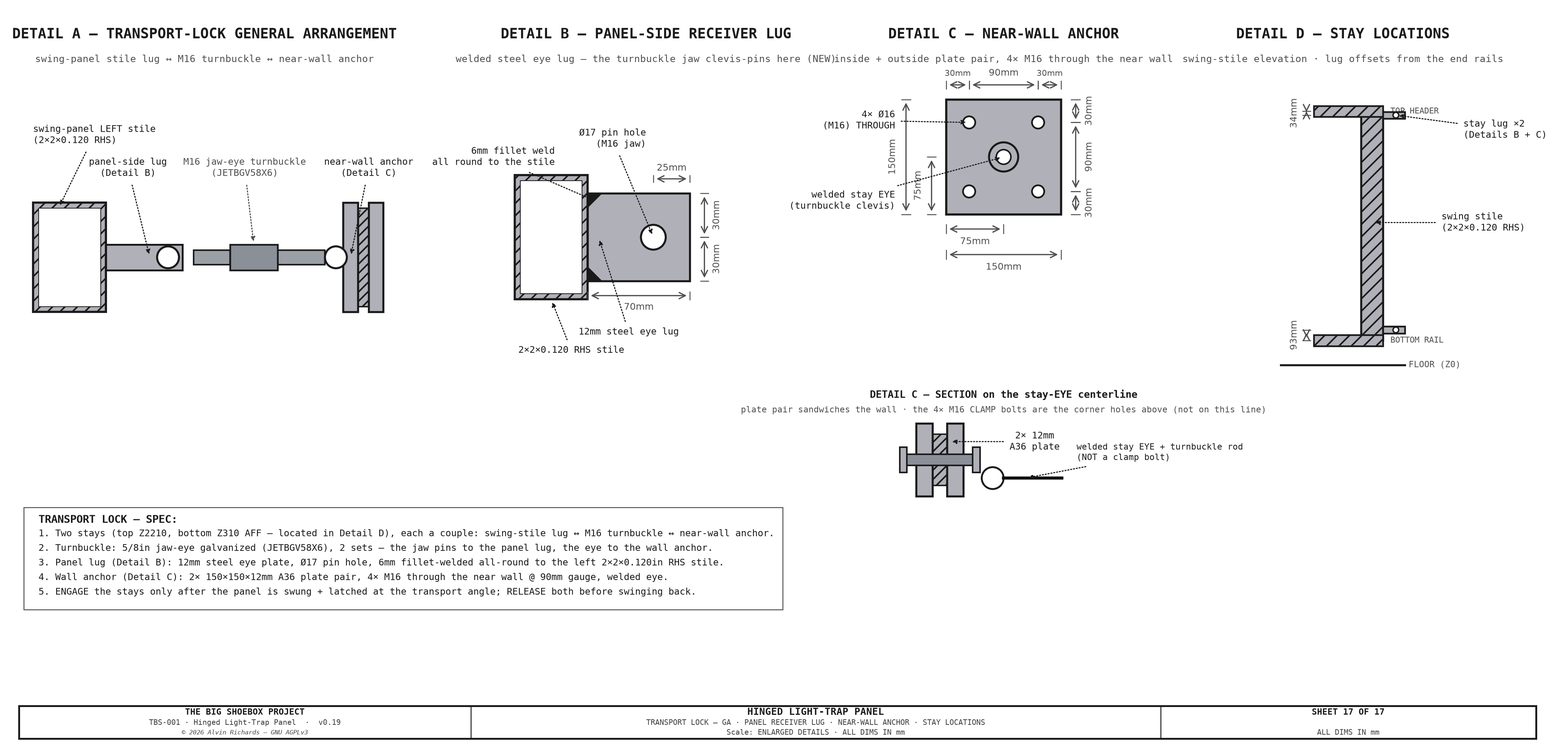
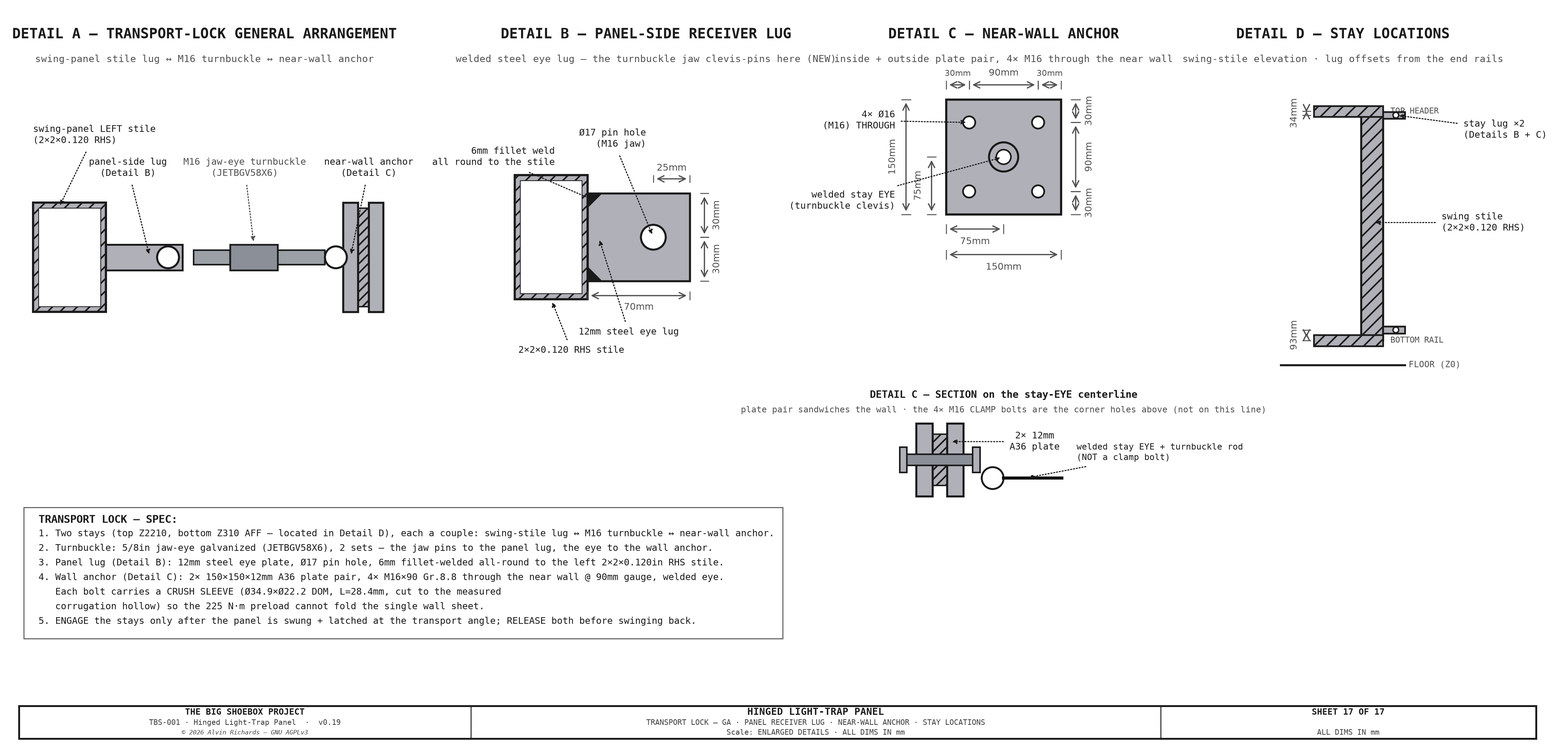
Hinged panel: crush sleeves on the M16 stay-anchor wall bolts (1-3/8 × 1/4 DOM, SF 2.02), M16×90 Gr.8.8 at 225 N·m

Changed region(s): [[0.0312, 0.7474, 0.4375, 0.8408]]

diff --git a/src/generators/costing.py b/src/generators/costing.py
@@ -244,8 +244,9 @@ SWINGPIVOT = [
     LineItem("Pivot floor/roof mount plates + anchor bolts + 3 hinge brackets", 70, 95, 120, "2026-08-28: Ø220×20 plates + 12× M12 anchors + 3 welded hub brackets (previously uncosted); local fab / McMaster — Sheet 10"),
     LineItem("Thrust ball bearing, 51118 (Ø90 bore, single-direction)", 80, 80, 80, "Bearings Direct $80.03 firm; SF>50 on the 3.24 kN axial"),
     LineItem("iglide J flange bushings, Ø90 bore (×2)", 261, 261, 261, "igus JFM-9095-100 $130.53 ea, ships in days (replaced the $211/ea 3-mo-lead GGB DU)"),
-    LineItem("Drum support cage, 1.5×1.5×0.120in steel SHS", 70, 95, 120, "Local fab"),
+    LineItem("Drum support cage, 2×2×0.120in steel SHS", 70, 95, 120, "Local fab"),
     LineItem("Top + bottom wall stays + 4-bolt anchor plates", 90, 105, 120, "5/8\" turnbuckle (JETBGV58X6) + eye rods + fab plates"),
+    LineItem("Stay-anchor crush sleeves, 1-3/8in OD × 1/4in DOM tube (1 ft → 8 sleeves)", 20, 30, 40, "2026-11-22: one per M16 stay-anchor wall bolt, cut to the measured corrugation hollow; SKU pending"),
     LineItem("Drop-in rail saddles + tapered dowels (×4, removable left film rails)", 80, 105, 130, "Local fab / McMaster"),
     # §8.4 fixed door frame
     LineItem("Fixed door frame — 50×20×3 RHS members (×3)", 90, 105, 120, "Metal Supermarkets — reuses the IBC retaining-bar section; lighter (frame no longer weight-bearing, only seal + latch load)"),
@@ -1209,7 +1210,7 @@ EXPECTED = { # the figures the docs are reconciled to (this session)
     "rich": {"chem": 2735, "total": 3040, "per_print": 61}, # 2026-10-22: 9.19 m² derived. Artcraft bulk — AmFe $64.20/kg + ferricyanide $51.01/kg
     # 2026-10-22: chem tiers rescaled to the 9.19 m2 (99 sqft) active plane (now derived from IMAGE_AREA_M2) -> grand total -$20/$30/$60.
     # 2026-10-27: +$12/$16/$20 — beam-penetration EPDM foam light-seals (ll-beam-notch-seal, 4 notches).
-    "grand_total": (27668, 32232, 45292), # 2026-11-22d: crush-sleeve tube firmed (McMaster 7767T62, 2× 8 ft). 2026-11-22c: M12×75 firmed.2026-11-22b: +$30/$47/$65 — film crush sleeves + M12×75. 2026-11-22: +$100/$149/$198 — wall-bolt crush sleeves (walkway + IBC hangers). 2026-11-21c: −$100 blackout poly + tape removed. 2026-11-21b: −$113 film-plane edge seal removed. 2026-11-21: drum-exit GRP grating dropped. 2026-11-20d: walkway angle firm + plywood brackets from it. 2026-11-20c: +$20/$30/$40 — drain-pump switches S-05/S-03. 2026-11-20b:
+    "grand_total": (27688, 32262, 45332), # 2026-11-22e: +$20/$30/$40 — stay-anchor M16 crush sleeves. 2026-11-22d: crush-sleeve tube firmed (McMaster 7767T62, 2× 8 ft). 2026-11-22c: M12×75 firmed.2026-11-22b: +$30/$47/$65 — film crush sleeves + M12×75. 2026-11-22: +$100/$149/$198 — wall-bolt crush sleeves (walkway + IBC hangers). 2026-11-21c: −$100 blackout poly + tape removed. 2026-11-21b: −$113 film-plane edge seal removed. 2026-11-21: drum-exit GRP grating dropped. 2026-11-20d: walkway angle firm + plywood brackets from it. 2026-11-20c: +$20/$30/$40 — drain-pump switches S-05/S-03. 2026-11-20b:
     # +$18/$32/$45 — X-port camlock dust caps. 2026-11-20: −$210/−$490/+$5,700 — §9 Licenses & permits computed from its lines (permits; CDL in
     # High only, baseline is commercial hire), was a fixed $220/$790/$1,620. 2026-11-19c: −$8/$14/$20 — IBC-2 float switch dropped. 2026-11-19b:
     # +$19 — flex-jumper SS clamps 2→3 10-packs. 2026-11-19: +$9 — flex jumpers on both ends of the Blue equalization tie (barbs 8→10).
@@ -1288,7 +1289,7 @@ EXPECTED = { # the figures the docs are reconciled to (this session)
     # 40×40×3→×5. Was (2818, 3363, 3902); before that (2761, 3223, 3681). Earlier 2026-08-24: metal-cap / lap-joint / edge-channel / drum-brush /
     # stile batch — added Al caps (est $400–700), rim-angle (est $45–90), SS rivets, DP8010, Al edge channels, handle stile; caps HDPE→Al, wiper
     # felt→brush. Al-plate/rim-angle/DP8010/edge/stile/brush/holder prices are ESTIMATES (firm at the Aug-2026 re-price). Was (2046, 2280, 2516)
-    "swingpivot": (1250, 1490, 1730), # 2026-08-28: +$70/$95/$120 pivot mount plates + anchor bolts + 3 hinge brackets (hingepanel-bp, previously uncosted). 2026-07-22: journal bushings → igus iglide J JFM-9095-100 $130.53/ea (from GGB DU $211.25) −$162/pair. §6b = hinged-panel §8.3 (swing pivot) + §8.4 (door frame) # 2026-07-22: MB9060DU DU journal bushings firmed $211.25/ea (made-to-order, ~3-mo lead) — +$363/pair over the placeholder. §6b = hinged-panel §8.3 (swing pivot) + §8.4 (door frame) line items
+    "swingpivot": (1270, 1520, 1770), # 2026-11-22: +$20/$30/$40 — stay-anchor crush sleeves. 2026-08-28: +$70/$95/$120 pivot mount plates + anchor bolts + 3 hinge brackets (hingepanel-bp, previously uncosted). 2026-07-22: journal bushings → igus iglide J JFM-9095-100 $130.53/ea (from GGB DU $211.25) −$162/pair. §6b = hinged-panel §8.3 (swing pivot) + §8.4 (door frame) # 2026-07-22: MB9060DU DU journal bushings firmed $211.25/ea (made-to-order, ~3-mo lead) — +$363/pair over the placeholder. §6b = hinged-panel §8.3 (swing pivot) + §8.4 (door frame) line items
     "panel": (1195, 1282, 1368), # 2026-11-06b: apron draw latches = 8 installed (2 top + 2 bottom per strip), bought as ONE 10-pack = $9.85 total (10-pack price). 2026-11-06:
     # −$83 apron latch 1619A74 cam ($122) → 1590A13 draw latch. 2026-11-06: −$83/$83/$83 apron latch 1619A74 cam ($122) → 1590A13 draw latch.
     # 2026-11-05b: +$74/$62/$50 apron latch → reuse 1619A74 (4× $30.57 firm, handle INSIDE; was est $48–72 allen-key — 2D Sheet 16 + 3D

diff --git a/src/generators/parts.py b/src/generators/parts.py
@@ -1008,7 +1008,10 @@ PARTS: list[Part] = [
     Part("sp-drum-cage", "Drum support cage, 2×2×0.120in steel SHS", "steel-structural",
          "swing", 1, "lot", 70, 120, "local fab", spec="Steel welded box cage carrying the Ø800 housing + drum on the swinging leaf — 4 corner posts + perimeter rails + a top & bottom axle beam at the drum axis, ALL 50×50×3 RHS (2×2×0.120in stock, the axle beams = the perimeter section: the 962mm span is barely stressed, δ≈0.3mm). The 2× Ø240×12 bearing mount plates (ll-mount-plates) are fillet-welded across the beams (steel↔steel) — the SKF 6215 ring/collar tap into them. Material inside the local-fab lot, so no separate per-ft line."),
     Part("sp-wall-stays", "Top + bottom wall stays + 4-bolt anchor plates", "fasteners-hardware",
-         "swing", 2, "set", 45, 60, "Fasteners Plus", spec="Transport lock — 2× M16 jaw-eye turnbuckle + 2 panel-side welded eye lugs (12mm steel, Ø17 clevis-pin hole, fillet-welded to the stile) + inside/outside wall anchor plates (150×150×12 A36 pair, 4× M16 through-bolts per anchor @ 90mm square); hingepanel Sheet 17", part_no="JETBGV58X6", url="https://www.fastenersplus.com/products/5-8-x-6-jaw-eye-galvanized-turnbuckle"),
+         "swing", 2, "set", 45, 60, "Fasteners Plus", spec="Transport lock — 2× M16 jaw-eye turnbuckle + 2 panel-side welded eye lugs (12mm steel, Ø17 clevis-pin hole, fillet-welded to the stile) + inside/outside wall anchor plates (150×150×12 A36 pair, 4× M16×90 Gr.8.8 through-bolts per anchor @ 90mm square, 225 N·m, each with a crush sleeve — sp-stay-wall-sleeve); hingepanel Sheet 17", part_no="JETBGV58X6", url="https://www.fastenersplus.com/products/5-8-x-6-jaw-eye-galvanized-turnbuckle"),
+    Part("sp-stay-wall-sleeve", "Stay-anchor crush sleeve stock — 1-3/8in OD × 1/4in wall DOM steel tube", "fasteners-hardware",
+         "swing", 1, "ft", 20, 40, "McMaster-Carr",
+         spec="Low-carbon steel DOM mechanical tube, 1-3/8in (34.9mm) OD × 1/4in wall (Ø22.2mm bore clears the M16 shank). Cut into 8 sleeves, one on every transport-stay wall-anchor M16 through-bolt (2 anchors × 4), each cut to the MEASURED corrugation hollow (~28.4mm = 30mm depth − 1.6mm sheet) so the 225 N·m M16 Gr.8.8 preload (70.7 kN) clamps plate-sleeve-sheet instead of collapsing the corrugation: sleeve 124 MPa → SF 2.02 at 250 MPa mild-steel yield; sheet bearing SF 2.78 on Corten (345 MPa). 8 × 28.4mm + kerf fits in a 1 ft length. SKU pending — source a 1 ft length of 1-3/8in × 0.250in DOM; $20–40 est."),
     Part("sp-rail-saddles", "Drop-in rail saddles + tapered dowels", "steel-structural",
          "swing", 4, "ea", 20, 32.5, "local fab", "McMaster-Carr", spec="For the 2 removable left film rails (TL + BL); dowels set the film datum"),
     # ═══ door (hinged-panel §8.4) — fixed door frame; sums to the SWINGPIVOT door lines ($335–$550) ═══

diff --git a/src/generators/generate_hingepanel_diagram.py b/src/generators/generate_hingepanel_diagram.py
@@ -2854,7 +2854,8 @@ def sheet17():
     from tbs_constants import (LT_STAY_PLATE_HW, LT_STAY_PLATE_T, LT_STAY_BOLT_OFF,
                                LT_STAY_BOLT_D, LT_STAY_LUG_T, LT_STAY_LUG_PROJ,
                                LT_STAY_LUG_H, LT_STAY_LUG_HOLE, LT_STAY_LUG_EDGE,
-                               LT_STAY_Z, PANEL_FLOOR_GAP, BRACE_Z_TOP)
+                               LT_STAY_Z, PANEL_FLOOR_GAP, BRACE_Z_TOP, LT_STAY_BOLT_L,
+                               LT_STAY_SLEEVE_OD, LT_STAY_SLEEVE_ID, WALL_SLEEVE_L)
     fig, ax = plt.subplots(figsize=(27, 8.5))
     fig.patch.set_facecolor(BG); ax.set_facecolor(BG)
     ax.set_aspect("equal"); ax.axis("off")
@@ -2981,7 +2982,9 @@ def sheet17():
         f"1. Two stays (top Z{LT_STAY_Z[1]}, bottom Z{LT_STAY_Z[0]} AFF — located in Detail D), each a couple: swing-stile lug ↔ M16 turnbuckle ↔ near-wall anchor.",
         f"2. Turnbuckle: 5/8in jaw-eye galvanized (JETBGV58X6), 2 sets — the jaw pins to the panel lug, the eye to the wall anchor.",
         f"3. Panel lug (Detail B): {LT_STAY_LUG_T}mm steel eye plate, Ø{LT_STAY_LUG_HOLE} pin hole, 6mm fillet-welded all-round to the left 2×2×0.120in RHS stile.",
-        f"4. Wall anchor (Detail C): 2× {2*LT_STAY_PLATE_HW}×{2*LT_STAY_PLATE_HW}×{LT_STAY_PLATE_T}mm A36 plate pair, 4× M16 through the near wall @ {2*LT_STAY_BOLT_OFF}mm gauge, welded eye.",
+        f"4. Wall anchor (Detail C): 2× {2*LT_STAY_PLATE_HW}×{2*LT_STAY_PLATE_HW}×{LT_STAY_PLATE_T}mm A36 plate pair, 4× M16×{LT_STAY_BOLT_L} Gr.8.8 through the near wall @ {2*LT_STAY_BOLT_OFF}mm gauge, welded eye.",
+        f"   Each bolt carries a CRUSH SLEEVE (Ø{LT_STAY_SLEEVE_OD}×Ø{LT_STAY_SLEEVE_ID} DOM, L={WALL_SLEEVE_L}mm, cut to the measured",
+        "   corrugation hollow) so the 225 N·m preload cannot fold the single wall sheet.",
         "5. ENGAGE the stays only after the panel is swung + latched at the transport angle; RELEASE both before swinging back.",
     ], 15, -56, spacing=8, fs=6, title_fs=7.0, color=C_OUT, title_color=C_OUT, width=400, wrap=150, border_color=C_DIM, font=FONT)
 

diff --git a/src/generators/tbs_constants.py b/src/generators/tbs_constants.py
@@ -398,6 +398,9 @@ LT_STAY_PLATE_HW = 75   # anchor plate half-width (mm) → 150×150 A36 plate (s
 LT_STAY_PLATE_T  = 12   # anchor plate thickness (mm)
 LT_STAY_BOLT_OFF = 45   # M16 through-bolt offset from plate center (mm) → 90 square pattern (30mm edge dist kept)
 LT_STAY_BOLT_D   = 16   # M16 through-bolt (mm)
+LT_STAY_BOLT_L   = 90   # M16×90 — grip = 2 plates + sheet + crush sleeve; extra length absorbs corrugation-depth variation
+LT_STAY_SLEEVE_OD = 34.9   # mm — 1-3/8in OD DOM steel tube (crush sleeve in the corrugation hollow)
+LT_STAY_SLEEVE_ID = 22.2   # mm — 1/4in wall (SF ≥2 on the M16 preload at mild-steel yield); clears the M16 shank
 # Panel-side receiver: a welded steel eye lug on the swinging frame's left 2×2×0.120 RHS stile
 # — the turnbuckle jaw clevis-pins to it (the mate of the wall anchor above). Shared by the 3D
 # frame_hooks() and hingepanel Sheet 17.

diff --git a/docs/project-cost-breakdown.md b/docs/project-cost-breakdown.md
@@ -22,13 +22,13 @@
 | **5b. Ventilation & cooling system (2 fans · evap cooler **+ 12V→120V inverter** · light-safe baffle-duct fab · shade canopy)** | $788 | $848 | $938 |
 | **6. Housed revolving-door light lock (plastic-skin custom fabrication)** | $3,156 | $3,667 | $4,175 |
 | **6a. Perimeter walkway (4 sections + drum-exit punch-out)** | $2,290 | $2,722 | $3,177 |
-| **6b. Panel swing pivot + fixed door frame (Ø89 post + bearings + cage + wall stays + rail saddles)** | $1,250 | $1,490 | $1,730 |
+| **6b. Panel swing pivot + fixed door frame (Ø89 post + bearings + cage + wall stays + rail saddles)** | $1,270 | $1,520 | $1,770 |
 | **6c. Hinged panel structure (stepped frame + HDPE skins + Al core + EPDM + cam latches + B2 bay + pull handle)** | $1,195 | $1,282 | $1,368 |
 | **6d. Chemistry prep shelf (fold-down UV-white ply board + hinge/stays + TAP-01 trunk extension)** | $268 | $275 | $280 |
 | **7. Printmaking — 50 prints (cyanotype; Low=Lean, Mid=Standard, High=Rich tier)** | $1,230 | $1,680 | $3,040 |
 | **8. Transportation (per deployment)** | $300 | $750 | $2,000 |
 | **9. Licenses & permits (per-deployment permits; High adds CDL)** | $10 | $300 | $7,320 |
-| **TOTAL (excl. own transport, lens)** | **$27,668** | **$32,232** | **$45,292** |
+| **TOTAL (excl. own transport, lens)** | **$27,688** | **$32,262** | **$45,332** |
 <!-- END costing:scenario -->
 
 *Line 7 (cyanotype printmaking) brackets the **Mike Ware New Cyanotype** concentration tiers — **Low = Lean ⅓-Ware, Mid = Standard ½-Ware, High = Rich full-Ware** — including the ~<!-- BEGIN costing:pcb-muslin-run -->$300<!-- END costing:pcb-muslin-run --> muslin substrate (§7.1). The [Sensitizer Trials](sensitizer-trials.md) pin the tier.*
@@ -279,9 +279,9 @@ The panel + drum SWING ~56° about a vertical Ø89×8mm CHS pivot post, carrying
 | Drum support cage, 1.5×1.5×0.120in steel SHS | $261 | $261 | $261 | Local fab |
 | Top + bottom wall stays + 4-bolt anchor plates | $70 | $95 | $120 | turnbuckles + rods + plates |
 | Drop-in rail saddles + tapered dowels (×4, removable left film rails) | $90 | $105 | $120 | Local fab / McMaster |
-| Fixed door frame — 50×20×3 RHS members (×3) | $80 | $105 | $130 | Metal Supermarkets |
+| Fixed door frame — 50×20×3 RHS members (×3) | $20 | $30 | $40 | Metal Supermarkets |
 | Fixed door frame — top/bottom seal lips (3mm steel ~110×4m) | $128.5 | $128.5 | $128.5 | seal paths #3–#4 |
-| Fixed door frame — welding/fabrication + wall attachment | $90 | $105 | $120 | Local fab |
+| Fixed door frame — welding/fabrication + wall attachment | $80 | $105 | $130 | Local fab |
 | **Panel swing pivot + door frame total** | **$938.5** | **$1,208.5** | **$1,478.5** | |
 <!-- END costing:swingpivot -->
 
@@ -478,13 +478,13 @@ Permit requirements vary by jurisdiction. Estimates below are based on general k
 | Ventilation & cooling system (2 fans · evap cooler + inverter · light-safe baffle-duct fab · shade canopy) | $788 |
 | Revolving drum light trap (plastic-skin custom fabrication) | $3,156 |
 | Perimeter walkway (4 sections, removable, GRP grating) | $2,290 |
-| Panel swing pivot + fixed door frame (Ø89 pivot + bearings + cage + wall stays + saddles + door frame) | $1,250 |
+| Panel swing pivot + fixed door frame (Ø89 pivot + bearings + cage + wall stays + saddles + door frame) | $1,270 |
 | Hinged panel structure (stepped frame + HDPE skins + Al core + EPDM + latches + B2 bay + handle) | $1,195 |
 | Chemistry prep shelf (fold-down board + tap trunk extension) | $268 |
 | Cyanotype chemistry + substrate (50 prints) | $1,230 |
 | Transport per deployment (local) | $400 |
 | Permits (minimal) | $50 |
-| **Scenario A total** | **~$27,308** |
+| **Scenario A total** | **~$27,328** |
 <!-- END costing:scenario-a -->
 
 ### Scenario B — Recommended build, regional deployment
@@ -501,14 +501,14 @@ Permit requirements vary by jurisdiction. Estimates below are based on general k
 | Ventilation & cooling system (2 fans · evap cooler + inverter · light-safe baffle-duct fab · shade canopy) | $848 |
 | Revolving drum light trap (plastic-skin custom fabrication) | $3,667 |
 | Perimeter walkway (4 sections, removable, GRP grating) | $2,722 |
-| Panel swing pivot + fixed door frame (Ø89 pivot + bearings + cage + wall stays + saddles + door frame) | $1,490 |
+| Panel swing pivot + fixed door frame (Ø89 pivot + bearings + cage + wall stays + saddles + door frame) | $1,520 |
 | Hinged panel structure (stepped frame + HDPE skins + Al core + EPDM + latches + B2 bay + handle) | $1,282 |
 | Chemistry prep shelf (fold-down board + tap trunk extension) | $275 |
 | Cyanotype chemistry + substrate (50 prints) | $1,680 |
 | Rodenstock Apo-Ronar 1,200mm lens | $800 |
 | Transport per deployment (50–100 miles) | $900 |
 | Permits (typical public land) | $300 |
-| **Scenario B total (excl. CDL)** | **~$33,032** |
+| **Scenario B total (excl. CDL)** | **~$33,062** |
 <!-- END costing:scenario-b -->
 
 ### Scenario C — Full production, own transport, CDL
@@ -516,11 +516,11 @@ Permit requirements vary by jurisdiction. Estimates below are based on general k
 <!-- BEGIN costing:scenario-c -->
 | Item | Cost |
 |------|------|
-| Scenario B build (less the $900 commercial transport, replaced here by owned transport) | $32,132 |
+| Scenario B build (less the $900 commercial transport, replaced here by owned transport) | $32,162 |
 | CDL Class A training + medical + DMV | $6,570 |
 | QuickLoadz self-loading trailer | $35,000 |
 | Ford F-350+ pickup (if needed) | $50,000–$80,000 (new) |
-| **Scenario C total** | **~$123,702–$153,702** |
+| **Scenario C total** | **~$123,732–$153,732** |
 <!-- END costing:scenario-c -->
 
 *Own transport only makes sense if the camera will be deployed frequently. For fewer than 60 moves, commercial hire is cheaper.*

diff --git a/docs/master-shopping-list.md b/docs/master-shopping-list.md
@@ -17,7 +17,7 @@ Items are grouped by build area. Source documents are cross-referenced in each s
 | 5. Print washing — water system (incl. IBC stacking frame) | $7,018 | $8,385 |
 | 6. Electrical — power, circuits, wiring | $3,449 | $3,555 |
 | 7. Housed revolving-door light lock (plastic-skin custom fabrication) | $3,156 | $4,175 |
-| 7a. Panel swing pivot + fixed door frame (Ø89 post + bearings + cage + wall stays + rail saddles + door frame) | $1,250 | $1,730 |
+| 7a. Panel swing pivot + fixed door frame (Ø89 post + bearings + cage + wall stays + rail saddles + door frame) | $1,270 | $1,770 |
 | 7b. Perimeter walkway (4 sections + drum-exit punch-out) | $2,290 | $3,177 |
 | 7c. Hinged panel structure (stepped frame + HDPE skins + Al core + EPDM + cam latches + B2 bay + pull handle) | $1,195 | $1,368 |
 | 7d. Chemistry prep shelf (fold-down UV-white ply board + hinge/stays + TAP-01 trunk extension) | $268 | $280 |
@@ -25,7 +25,7 @@ Items are grouped by build area. Source documents are cross-referenced in each s
 | 9. Printmaking chemistry — cyanotype, 50 prints (Low = Lean, High = Rich tier) | $1,230 | $3,040 |
 | 10. Printmaking tools & consumables | $350 | $500 |
 | 11. Safety & PPE | $120 | $180 |
-| **TOTAL (base build + 50-print run)** | **~$27,828** | **~$36,652** |
+| **TOTAL (base build + 50-print run)** | **~$27,848** | **~$36,692** |
 <!-- END costing:master-summary -->
 
 *Optional additions: lens plate (+$400–$1,500), self-haul transport (+$30,000–$40,000).*
@@ -289,6 +289,7 @@ indicative low–high estimates — get quotes before ordering.
 | [1/4"-20 pronged tee-nut (ply attach)](https://www.homedepot.com/p/Everbilt-1-4-in-20-Zinc-Plated-Tee-Nut-4-Pack-825001/317478995) (825001) | 2 4-pack | Home Depot | shelf | $3 |
 | [Transport latch — cam latch (reuse 1619A74)](https://www.mcmaster.com/1619A74/) (1619A74) | 1 ea | McMaster-Carr | shelf | $31 |
 | [M8 SS eye bolt — chain wall anchor](https://www.mcmaster.com/4843T13/) (4843T13) | 2 ea | McMaster-Carr | shelf | $16 |
+| Stay-anchor crush sleeve stock — 1-3/8in OD × 1/4in wall DOM steel tube | 1 ft | McMaster-Carr | swing | $20–$40 |
 | [Top + bottom wall stays + 4-bolt anchor plates](https://www.fastenersplus.com/products/5-8-x-6-jaw-eye-galvanized-turnbuckle) (JETBGV58X6) | 2 set | Fasteners Plus | swing | $90–$120 |
 | [Clamp-style shaft collar, 25mm/1" bore, SS](https://www.ruland.com/cl-16-st.html) (CL-16-ST) | 1 ea | Ruland | spray | $28–$33 |
 | [M12×1.75 jam nut, SS](https://www.mcmaster.com/90381A102/) (90381A102) | 1 ea | McMaster-Carr | spray | $1 |
@@ -305,7 +306,7 @@ indicative low–high estimates — get quotes before ordering.
 | Grating clips | 30 ea | McNichols | walkway | $30–$50 |
 | [M12×30 hex bolt, Gr.8.8 zinc (leg foot → sub-plate tapped boss)](https://www.mcmaster.com/91280A716/) (91280A716) | 20 ea | McMaster-Carr | walkway | $17 |
 | [Wall-bolt crush sleeve stock — 1in OD × 0.188in wall DOM steel tube](https://www.mcmaster.com/7767T62-7767T236/) (7767T62) | 9 ft | McMaster-Carr | walkway | $116 |
-| **fasteners-hardware subtotal** | | | | **$2,303–$2,571** |
+| **fasteners-hardware subtotal** | | | | **$2,323–$2,611** |
 
 ### optics
 
@@ -506,7 +507,7 @@ indicative low–high estimates — get quotes before ordering.
 | Local fab | 21 | adhesives-finishes, fabrication-labor, steel-structural | $2,144–$3,505 |
 | containermgt.com | 1 | container | $2,000–$3,500 |
 | Metal Supermarkets | 23 | aluminum, ducting-ventilation, steel-structural | $2,310–$3,107 |
-| McMaster-Carr | 88 | adhesives-finishes, aluminum, bearings-motion, fasteners-hardware, seals-gaskets, steel-structural | $2,151–$2,159 |
+| McMaster-Carr | 89 | adhesives-finishes, aluminum, bearings-motion, fasteners-hardware, seals-gaskets, steel-structural | $2,171–$2,199 |
 | Amazon | 31 | adhesives-finishes, aluminum, bearings-motion, ducting-ventilation, electrical-distribution, electrical-power, fabric-textile, fasteners-hardware, plumbing-fittings, tools-safety, water-equipment | $2,013–$2,033 |
 | Online Metals | 6 | aluminum, stainless-sheet, steel-structural | $1,229–$1,939 |
 | Home Depot | 54 | adhesives-finishes, ducting-ventilation, electrical-distribution, fasteners-hardware, plumbing-fittings, steel-structural, timber-ply, tools-safety | $1,642–$1,821 |

diff --git a/docs/cost-analysis-report.md b/docs/cost-analysis-report.md
@@ -11,7 +11,7 @@ capital from recurring/consumable spend, and ranks the realistic savings levers.
 
 All figures are the **mid-column** estimates from the
 [Cost Breakdown](project-cost-breakdown.md) (the itemized source of truth); the build
-mid-total is **~<!-- BEGIN costing:ca-mid-total -->$32,232<!-- END costing:ca-mid-total -->**.
+mid-total is **~<!-- BEGIN costing:ca-mid-total -->$32,262<!-- END costing:ca-mid-total -->**.
 
 ---
 
@@ -24,13 +24,13 @@ recurs or is consumed — savings strategy is different for each.
 <!-- BEGIN costing:ca-buckets -->
 | Bucket | Mid | What it is |
 |---|--:|---|
-| **Capital build** (one-time hardware) | **$29,502** | The systems you build once — this is where build-savings live |
+| **Capital build** (one-time hardware) | **$29,532** | The systems you build once — this is where build-savings live |
 | Consumable (per 50-print batch) | $1,680 | Cyanotype chemistry + substrate (Standard ½-Ware) — recurs every batch |
 | Recurring (per deployment) | $750 | Commercial-hire transport |
 | Soft / regulatory | $300 | Licenses & permits |
 <!-- END costing:ca-buckets -->
 
-Build-savings work on the **<!-- BEGIN costing:ca-capital -->$29,502<!-- END costing:ca-capital --> capital**. The <!-- BEGIN costing:ca-consumable -->$1,680<!-- END costing:ca-consumable --> consumable is attacked
+Build-savings work on the **<!-- BEGIN costing:ca-capital -->$29,532<!-- END costing:ca-capital --> capital**. The <!-- BEGIN costing:ca-consumable -->$1,680<!-- END costing:ca-consumable --> consumable is attacked
 separately (bulk chemistry, cheaper substrate) because it repeats every batch and
 quickly dominates lifetime cost.
 
@@ -49,7 +49,7 @@ Capital systems ranked by mid cost:
 | **Power & electrical** | $3,502 | 12% | Battery + solar + distribution + protection |
 | **Container + delivery** | $3,300 | 11% | Grade-dependent (CW vs WWT) |
 | **Perimeter walkway** | $2,722 | 9% | GRP grating + steel cantilevers |
-| **Swing pivot** | $1,490 | 5% | Pivot post + bearings + cage + fixed RHS door frame |
+| **Swing pivot** | $1,520 | 5% | Pivot post + bearings + cage + fixed RHS door frame |
 | **Hinged panel structure** | $1,282 | 4% | Stepped frame + HDPE skins + Al core + EPDM + latches + B2 bay |
 | **Ventilation & cooling** | $848 | 3% | Fans + cooler + inverter + baffle-duct fab + canopy |
 | **Interior conversion** | $505 | 2% | Insulation, sealing, safelight |
@@ -74,7 +74,7 @@ Ranked by dollar potential and ease. Status is updated as levers are actioned.
 | 4 | **Solar 3 → 2 panels** (if the power budget allows) | Power | ~<!-- BEGIN costing:ca-lever-solar -->$133<!-- END costing:ca-lever-solar --> | Easy | Available — computed (drop 1× 200W panel) |
 | 5 | **Valves / fittings value-engineering** | Water | ~<!-- BEGIN costing:ca-lever-valves-low -->$100<!-- END costing:ca-lever-valves-low -->–<!-- BEGIN costing:ca-lever-valves-high -->$200<!-- END costing:ca-lever-valves-high --> | Medium | Available |
 
-After the material decisions, the only still-**available** build-savings levers are **1 (container grade) + 4 (solar)** — together **~<!-- BEGIN costing:ca-savings-low -->$1,500<!-- END costing:ca-savings-low -->** off the <!-- BEGIN costing:ca-capital -->$29,502<!-- END costing:ca-capital --> capital build (**~<!-- BEGIN costing:ca-savings-pct-low -->5<!-- END costing:ca-savings-pct-low -->%**), plus ~$100–200 of valve value-engineering (#5). Everything else is settled: lever 2 **kept 304 SS** (decision), lever 3 **already 1×100 Ah**.
+After the material decisions, the only still-**available** build-savings levers are **1 (container grade) + 4 (solar)** — together **~<!-- BEGIN costing:ca-savings-low -->$1,500<!-- END costing:ca-savings-low -->** off the <!-- BEGIN costing:ca-capital -->$29,532<!-- END costing:ca-capital --> capital build (**~<!-- BEGIN costing:ca-savings-pct-low -->5<!-- END costing:ca-savings-pct-low -->%**), plus ~$100–200 of valve value-engineering (#5). Everything else is settled: lever 2 **kept 304 SS** (decision), lever 3 **already 1×100 Ah**.
 
 > **Derivation note.** Lever 1 (container grade), lever 5 (solar), and the roll-up total +
 > percentage are computed in `costing.py` — container is a true CW − WWT subtraction off the

diff --git a/docs/hinged-panel-report.md b/docs/hinged-panel-report.md
@@ -399,7 +399,7 @@ near-deck section lift out** before the swing; all are re-seated to datum afterw
 
 > **Stay lugs land on steel, not the skin.** The transport-stay couple carries real tension, so both lugs weld to the **left perimeter RHS stile** of the swinging frame — *not* the 1/8" HDPE plastic skin. The perimeter stile is the farthest point from the pivot (best lever arm) and a continuous welded steel load path into the frame.
 
-The complete transport lock is detailed on **Sheet 17** — the general arrangement, the **panel-side receiver lug** (a 12mm steel eye plate with a Ø17 clevis-pin hole, 6mm fillet-welded all round to the stile — the turnbuckle jaw clevis-pins here), and the **near-wall anchor** (a 150 × 150 × 12mm A36 plate pair bolted through the near wall with 4 × M16 on a 90mm square — the interior + exterior backing-plate pattern of the wall-hanger / cantilever joints, since the wall can't be welded to). The turnbuckle is a 5/8in jaw-eye galvanized unit (JETBGV58X6). Both ends are modeled in 3D.
+The complete transport lock is detailed on **Sheet 17** — the general arrangement, the **panel-side receiver lug** (a 12mm steel eye plate with a Ø17 clevis-pin hole, 6mm fillet-welded all round to the stile — the turnbuckle jaw clevis-pins here), and the **near-wall anchor** (a 150 × 150 × 12mm A36 plate pair bolted through the near wall with 4 × M16×90 Gr.8.8 on a 90mm square — the interior + exterior backing-plate pattern of the wall-hanger / cantilever joints, since the wall can't be welded to). The wall is a single 1.6mm corrugated sheet, so each bolt crosses a ~28mm hollow; a **crush sleeve** (1-3/8in OD × 1/4in wall DOM steel tube, cut to the measured hollow) fills it so the 225 N·m preload (70.7 kN at 75% of proof load, K = 0.2) clamps plate, sleeve and sheet instead of folding the corrugation. The sleeve runs at 124 MPa (SF 2.02 on 250 MPa mild-steel yield) and bears on the sheet at SF 2.78 (Corten, 345 MPa yield). The 90mm length covers the 54mm grip plus washers, split-lock, nut and two threads, with spare length for corrugation-depth variation. The turnbuckle is a 5/8in jaw-eye galvanized unit (JETBGV58X6). Both ends are modeled in 3D.
 
 **Sheet 17 — Transport Lock: general arrangement + panel-side receiver lug + near-wall anchor**
 ![TBS-001 Hinged Panel — Sheet 17: Transport Lock](assets/hingepanel-sheet17.png)
@@ -541,9 +541,9 @@ See the **[Master Shopping List, filtered to this report's systems](master-shopp
 |----------|------------|--------------|
 | Panel structure (incl. B2 bay + pull handle) | <!-- BEGIN costing:hp-panel-low -->$1,195<!-- END costing:hp-panel-low --> | <!-- BEGIN costing:hp-panel-high -->$1,368<!-- END costing:hp-panel-high --> |
 | Housing + drum (plastic skin) | <!-- BEGIN costing:hp-housing-low -->$3,156<!-- END costing:hp-housing-low --> | <!-- BEGIN costing:hp-housing-high -->$4,175<!-- END costing:hp-housing-high --> |
-| Swing pivot hardware | <!-- BEGIN costing:hp-swing-low -->$831<!-- END costing:hp-swing-low --> | <!-- BEGIN costing:hp-swing-high -->$1,131<!-- END costing:hp-swing-high --> |
+| Swing pivot hardware | <!-- BEGIN costing:hp-swing-low -->$851<!-- END costing:hp-swing-low --> | <!-- BEGIN costing:hp-swing-high -->$1,171<!-- END costing:hp-swing-high --> |
 | Fixed door frame | <!-- BEGIN costing:hp-doorframe-low -->$419<!-- END costing:hp-doorframe-low --> | <!-- BEGIN costing:hp-doorframe-high -->$599<!-- END costing:hp-doorframe-high --> |
-| **Total** | **<!-- BEGIN costing:hp-total-low -->$5,601<!-- END costing:hp-total-low -->** | **<!-- BEGIN costing:hp-total-high -->$7,273<!-- END costing:hp-total-high -->** |
+| **Total** | **<!-- BEGIN costing:hp-total-low -->$5,621<!-- END costing:hp-total-low -->** | **<!-- BEGIN costing:hp-total-high -->$7,313<!-- END costing:hp-total-high -->** |
 
 ---
 

diff --git a/docs/TODO.md b/docs/TODO.md
@@ -448,7 +448,7 @@ walkway, hinged panel, light lock, electrical, optics, …)._
 **► Blueprint-readiness audit — ALL systems reviewed 2026-10-10 (7-way parallel).** Result: **6 of 7 subsystems are manufacturing-ready blueprints; water/tray/spray is the one genuine gap.**
 - ✅ **Film-plane** (template) — fab Sheets 13–18 fab-grade, datum/tol scheme Sheet 9, fastener schedule Sheet 12. Polish: sparse explicit hole-Ø drill callouts; rail/saddle (13/18) outside the Sheet-9 tol block.
 - ✅ **IBC frame + plate schedule** — cut list, datums/tol, weld map+schedule, 1:1 plate details, fully-dimensioned cantilever arm. Stacking set = GA (correct). J1 mark on Sheet 1. **DONE 2026-10-12:** floor anchoring adopted the **sub-plate (strongback) standard** — feet/legs bolt to a shared steel plate self-tapped into the cross-members (container cross-members aren't standardized; ISO 1496-1). J1→J1a/J1b (IBC) + WF4→WF4a/WF4b (walkway) across §3.4a/§5.1a + parts/costing + blueprint-specs + the new `floor-anchor-map` 2-sheet diagram; cost cascaded.
-- [ ] **Wall corrugation — measure on the ACQUIRED container.** Rib pitch (457mm nominal; not in ISO 668 or a US standard), corrugation depth (30mm assumed — sets every wall-bolt grip) and the outer trough opening (the 100/120mm walkway reinforcing plates must bridge it). Cut every wall-bolt crush sleeve (walkway WF6 + IBC hangers + film-plane saddles/flanges) to the measured hollow. Re-station the near/far walkway brackets and re-check the M12×70 length in walkway_load.py if they differ.
+- [ ] **Wall corrugation — measure on the ACQUIRED container.** Rib pitch (457mm nominal; not in ISO 668 or a US standard), corrugation depth (30mm assumed — sets every wall-bolt grip) and the outer trough opening (the 100/120mm walkway reinforcing plates must bridge it). Cut every wall-bolt crush sleeve (walkway WF6 + IBC hangers + film-plane saddles/flanges + hinged-panel stay anchors, M16) to the measured hollow, and confirm each sleeve lands on a corrugation flat (the M16 stay sleeve is Ø34.9). Re-station the near/far walkway brackets and re-check the M12×70 length in walkway_load.py if they differ.
 - [ ] **Floor-anchor sub-plates — finalize on the ACQUIRED container.** Plate dimensions, members spanned, and TEK count are container-dependent (§3.4a / §5.1a): on receipt, survey the cross-member stations + door-end sill + any forklift pockets, then cut each plate and drill its on-site TEK clearance holes to the surveyed steel. (IBC ~650×450×8; walkway ~1900×350×8 continuous — both representative.)
 - ✅ **3D models — floor-anchor sub-plate + shortened post (`FLOOR_PLATE_T`).** DONE 2026-10-12: `cp.frame()` + `walkway_model` carry the sub-plate (under the IBC feet + the continuous walkway sill→tray plate), feet/legs raised onto it, posts cut shorter by the plate thickness (frame top fixed), J6 backing-plate follows the raised ring. All **6 models re-sent → saved → pushed to Sketchfab → committed** (overview, walkway, ibc-stack, water, film-plane-mechanism, construction); `manifest.py --check` = all 11 current; `check_interference` = 0. (Residual `check_consistency` "FLOOR_PLATE_T only in 2D" on the ibc-frame pairing is the pre-existing shared-`cp.frame()`-module heuristic artifact, same as `IBC_FOOT_PLATE_T`/`IBC_FRAME_RHS`.)
 - ✅ **Winged-TEK SKU URL backfill — DONE 2026-10-12.** `ibcf-floor-tek` + `walkway-floor-tek` (`F14C325FDC`, #14×3¼″ winged self-driller) now carry the Fasteners Plus product URL; parts-identity lint advisory cleared.

diff --git a/docs/funding-proposal.md b/docs/funding-proposal.md
@@ -86,7 +86,7 @@ The container moves by commercial hire tilt-bed truck. No CDL is required for th
 ## 6. Budget and Use of Funds
 All figures are drawn from the [full cost breakdown](project-cost-breakdown.md). Per-item procurement details with supplier URLs are in the [master shopping list](master-shopping-list.md). Three funding levels are presented to allow partial or phased support.
 
-### Level 1 — Core Build (~<!-- BEGIN costing:fund-l1-total -->$34,661<!-- END costing:fund-l1-total -->, Standard scenario)
+### Level 1 — Core Build (~<!-- BEGIN costing:fund-l1-total -->$34,691<!-- END costing:fund-l1-total -->, Standard scenario)
 Everything required to operate the camera for a first deployment. Figures are the Standard (Mid) column of the [cost breakdown](project-cost-breakdown.md); Low–High scenarios span ~<!-- BEGIN costing:fund-scenario-span -->$28,000–$45,000<!-- END costing:fund-scenario-span -->.
 
 <!-- BEGIN costing:funding-level1 -->
@@ -102,12 +102,12 @@ Everything required to operate the camera for a first deployment. Figures are th
 | Power & electrical (600W solar · LiFePO4 · MPPT · distribution · protection · lighting) | $3,502 |
 | Ventilation & cooling (2 fans · evap cooler + 12V→120V inverter · light-safe ducting) | $848 |
 | Perimeter walkway (4 sections + drum-exit punch-out) | $2,722 |
-| Panel swing pivot + fixed door frame (Ø89 post + bearings + cage + wall stays + door frame) | $1,490 |
+| Panel swing pivot + fixed door frame (Ø89 post + bearings + cage + wall stays + door frame) | $1,520 |
 | Hinged panel structure (stepped frame + HDPE skins + Al core + EPDM + latches + B2 bay + handle) | $1,282 |
 | Chemistry prep shelf (fold-down UV-white ply board + hinge/stays + tap trunk extension) | $275 |
 | Cyanotype chemistry + muslin substrate (50-print run, Standard tier) | $1,680 |
 | Contingency (10%) | ~$3,150 |
-| **Level 1 total** | **~$34,661** |
+| **Level 1 total** | **~$34,691** |
 <!-- END costing:funding-level1 -->
 
 ### Level 2 — First Deployment (+$1,025–2,750)
@@ -130,7 +130,7 @@ Video documentation, process photography, and initial publication:
 | Publication design (zine or catalog, print run) | $500–1,500 |
 | **Level 3 total** | **~$2,000–5,000** |
 
-**Combined (Levels 1+2+3):** ~<!-- BEGIN costing:fund-combined -->$37,686–42,411<!-- END costing:fund-combined --> for a complete first-year program with three public deployments, 50-print edition, and full documentation.
+**Combined (Levels 1+2+3):** ~<!-- BEGIN costing:fund-combined -->$37,716–42,441<!-- END costing:fund-combined --> for a complete first-year program with three public deployments, 50-print edition, and full documentation.
 
 ## 7. Timeline
 A 12-month build and deployment program:

diff --git a/RELEASE.md b/RELEASE.md
@@ -26,6 +26,7 @@ is no separate publish step to run afterward.
 
 ## [Unreleased]
 
+- **Hinged-panel transport-stay wall anchors get crush sleeves.** The 8 M16 through-bolts on the two near-wall anchor plate pairs cross the same ~28mm corrugation hollow as the other wall bolts. Each now carries a 1-3/8in OD × 1/4in wall DOM sleeve (SF 2.02 on the 225 N·m M16 Gr.8.8 preload; sheet bearing SF 2.78). The bolts are specified as M16×90 Gr.8.8. Sheet 17 note 4, the report's transport-lock paragraph and the parts registry (`sp-stay-wall-sleeve`, SKU pending, $20–40) are updated. The costing line "Drum support cage" now names the 2×2×0.120in section.
 - **Hinged-panel movable weight regenerated from the drum-cage design (≈277 kg).** `generate_movable_panel_weight.py` modeled the drum cage as light 25mm angle (16 kg); it is now built member by member from the 2×2×0.120in tube box in the 3D model (4 posts, 8 rails, 2 axle beams, 2 bearing plates: 90 kg). The drum diameter, stub-shaft length and latch count (2) now come from the constants. Report §2.4 is injected from the generator (`movable:` block, lint-gated) and adds the pivot loads: 3.1 kN·m on the post against its 3.6 kN·m sizing, and 277 kg on the thrust bearing against its 330 kg design load.
 - **Hinged Panel report: what/why pass.** Corrected against the constants and datasheets: the center frame section, the SKF 6215 load ratings and temperature range (now cited), the drum-cage underside height (Z140) and its clearances over the walkway posts and the tray rim (also fixed in the walkway report), the pull-handle mounting, the movable mass, the stay hardware and the housing-seal cross-reference. §2.5 is rewritten as Skin Material, duplicate passages are removed, and history and code names are cut.
 - **Walkway report: what/why pass.** The access lists now match the equipment layout. Corrected against the constants and parts: the right walkway's 245mm width and its grating clips on the frame beams; the widened-zone X range (1,165–3,193); the cooler size (it fits the deck, no overhang); grating open area ~70%; the post position; and the spray-bar clearance. The duplicate left-walkway tables are merged and the redesign history removed.
